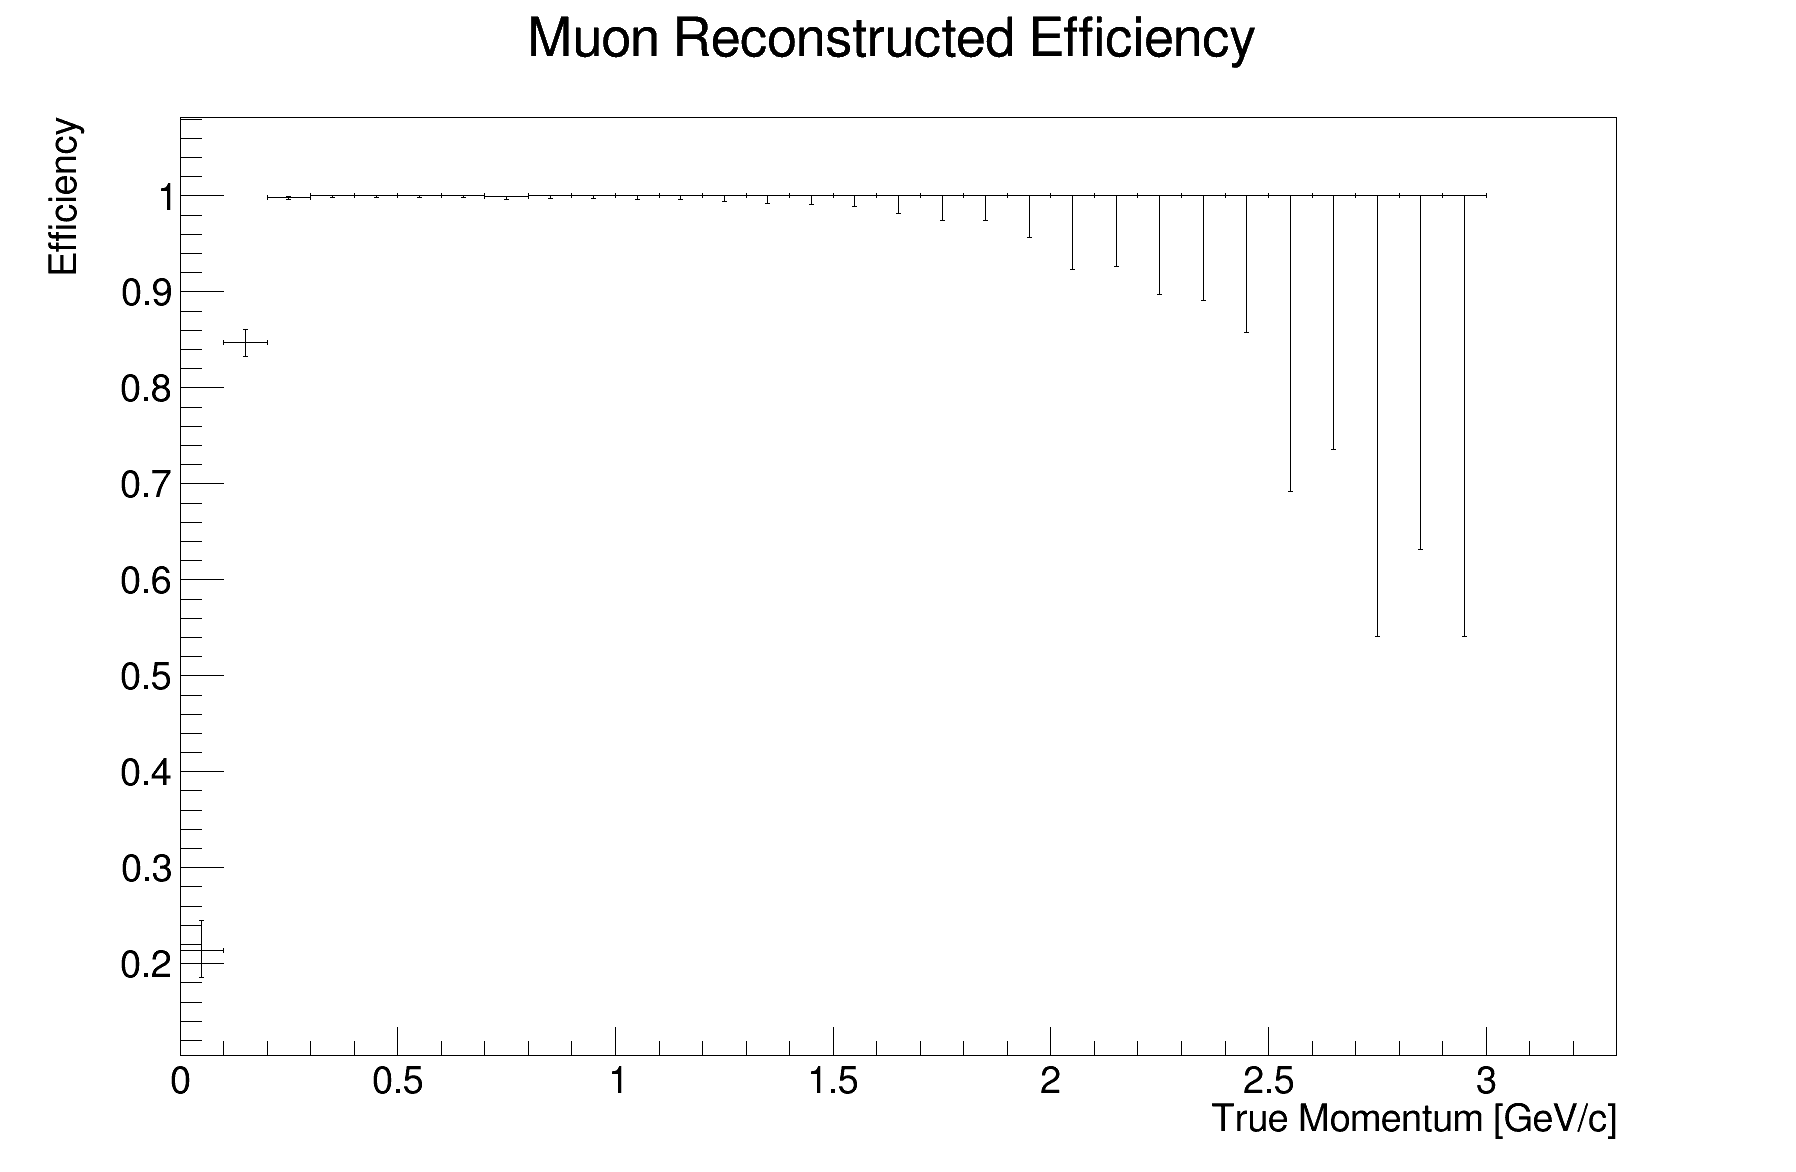
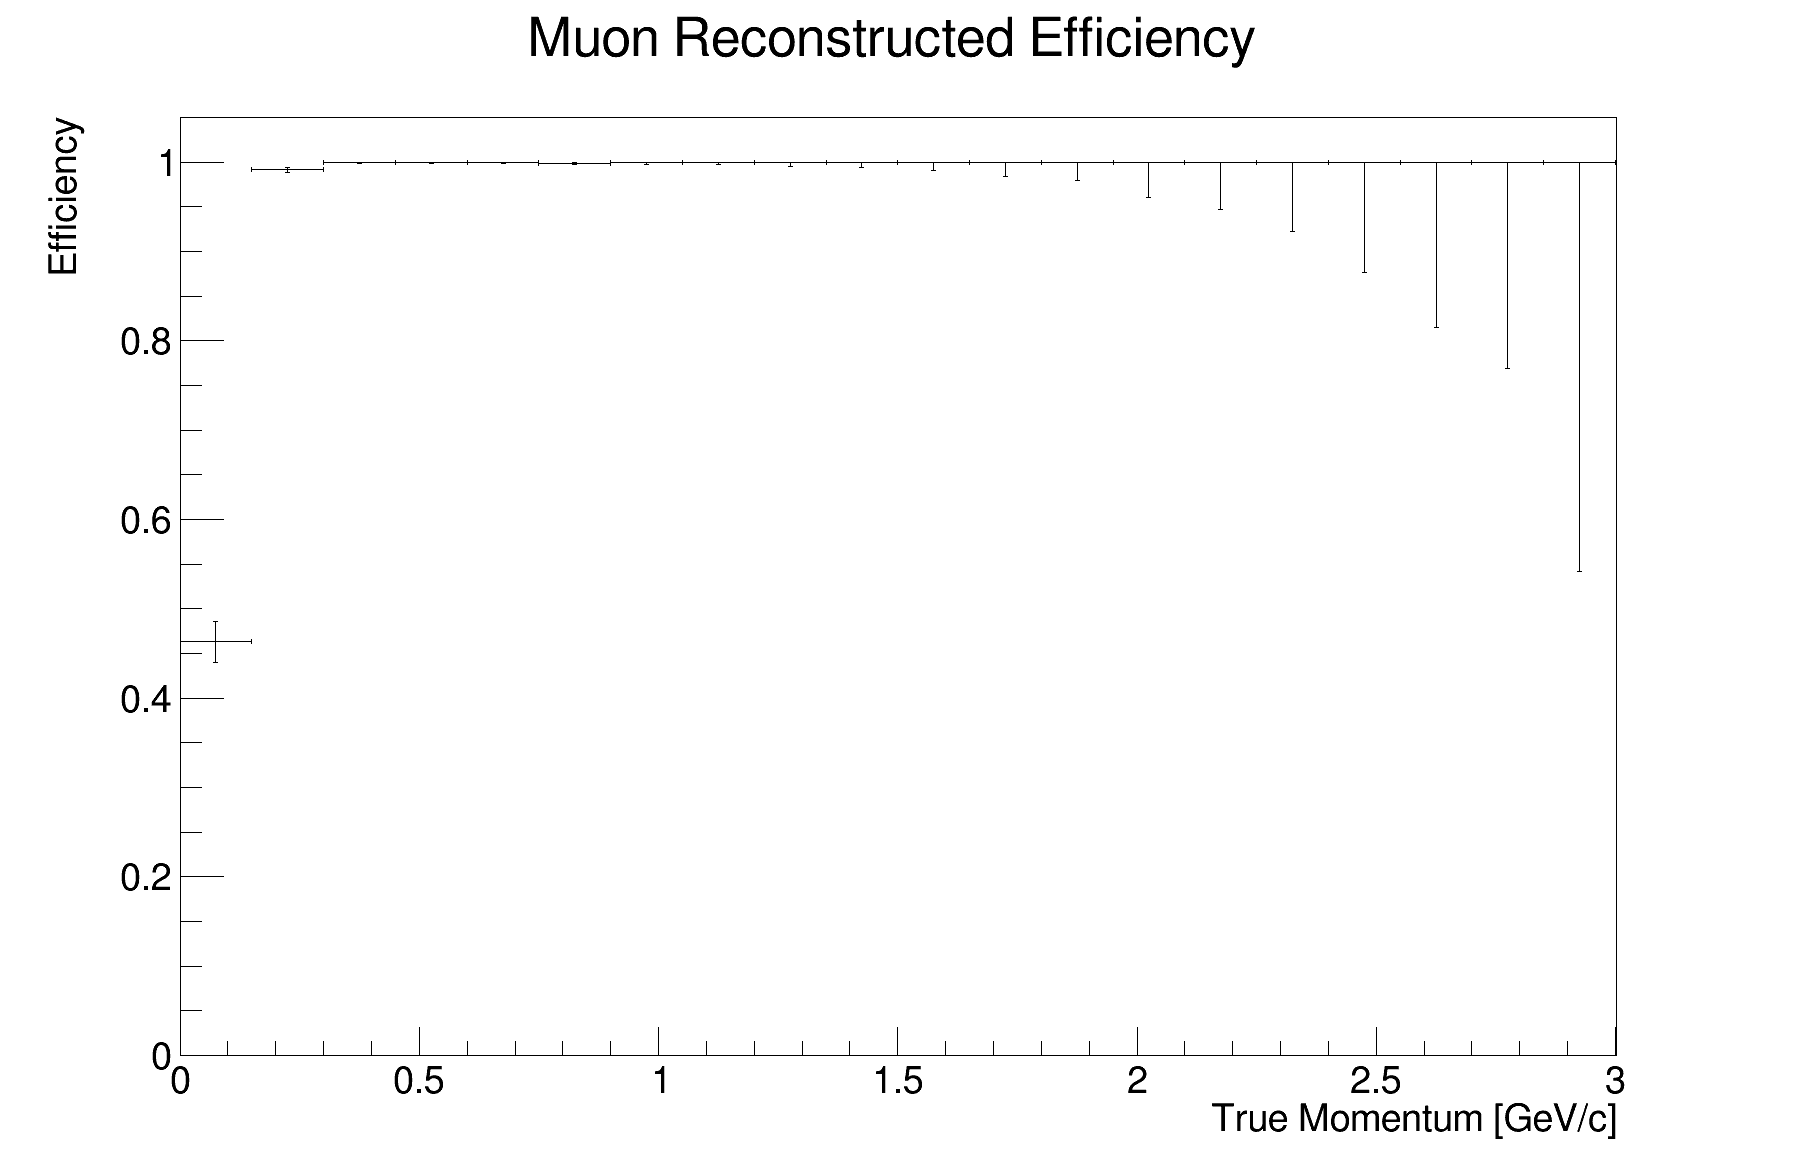
count per view hits in analyzer

diff --git a/output/recoStudy.C b/output/recoStudy.C
@@ -4,6 +4,32 @@
 #include <TStyle.h>
 #include <TCanvas.h>
 
+void StyleEfficiency(TEfficiency* eff, Color_t color, Style_t markerStyle, double xmin, double xmax)
+{
+    eff->Draw("AP");
+    gPad->Update();
+
+    TGraphAsymmErrors* gr = eff->GetPaintedGraph();
+
+    for (int i = 0; i < gr->GetN(); ++i)
+    {
+        gr->SetPointEXlow(i, 0.0);
+        gr->SetPointEXhigh(i, 0.0);
+    }
+
+    gr->SetMarkerColor(color);
+    gr->SetLineColor(color);
+    gr->SetMarkerStyle(markerStyle);
+    gr->SetMarkerSize(5);
+    gr->SetLineWidth(2);
+
+    gr->GetXaxis()->SetRangeUser(xmin, xmax);
+    gr->GetYaxis()->SetRangeUser(0.0, 1.05);
+
+    gPad->Modified();
+    gPad->Update();
+}
+
 void recoStudy::Loop()
 {
 //   In a ROOT session, you can do:
@@ -38,10 +64,10 @@ void recoStudy::Loop()
       hRecoEfficiencies->at(i)->SetDirectory(nullptr);
    }*/
 
-   TEfficiency* effMuon = new TEfficiency("effMuon", "Muon Reconstructed Efficiency;True Momentum [GeV/c]; Efficiency", 30, 0.0, 3.0);
-   TEfficiency* effPhoton = new TEfficiency("effPhoton", "Photon Reconstruction Efficiency;True Momentum [GeV/c]; Efficiency", 30, 0.0, 3.0);
-   TEfficiency* effProton = new TEfficiency("effProton", "Proton Reconstruction Efficiency;True Momentum [GeV/c]; Efficiency", 30, 0.0, 3.0);
-   TEfficiency* effPion = new TEfficiency("effPion", "Pion Reconstruction Efficiency;True Momentum [GeV/C]; Efficiency", 30, 0.0, 0.0);
+   TEfficiency* effMuon = new TEfficiency("effMuon", "Muon Reconstructed Efficiency;True Momentum [GeV/c]; Efficiency", 20, 0.0, 3.0);
+   TEfficiency* effPhoton = new TEfficiency("effPhoton", "Photon Reconstruction Efficiency;True Momentum [GeV/c]; Efficiency", 20, 0.0, 0.5);
+   TEfficiency* effProton = new TEfficiency("effProton", "Proton Reconstruction Efficiency;True Momentum [GeV/c]; Efficiency", 20, 0.0, 1.5);
+   TEfficiency* effPion = new TEfficiency("effPion", "Pion Reconstruction Efficiency;True Momentum [GeV/C]; Efficiency", 20, 0.0, 0.5);
 
    int nMuons = 0;
    int nPhotons = 0;
@@ -76,17 +102,17 @@ void recoStudy::Loop()
                nMuons++;
             }
             // photons
-            if (truePDG->at(i) == 22 && trueGeneration->at(i) == 1){
+            if (truePDG->at(i) == 22 && trueGeneration->at(i) == 1 && trueMotherPDG->at(i) == 3212){
                effPhoton->Fill(reconstructed, momentum);
                nPhotons++;
             }
             // protons
-            if (truePDG->at(i) == 2212 && trueGeneration->at(i) == 2){
+            if (truePDG->at(i) == 2212 && trueGeneration->at(i) == 2 && trueMotherPDG->at(i) == 3122){
                effProton->Fill(reconstructed, momentum);
                nProtons++;
             }
             // pions
-            if (truePDG->at(i) == -211 && trueGeneration->at(i) == 2){
+            if (truePDG->at(i) == -211 && trueGeneration->at(i) == 2 && trueMotherPDG->at(i) == 3122){
                effPion->Fill(reconstructed, momentum);
                nPions++;
             }
@@ -106,23 +132,26 @@ void recoStudy::Loop()
    cEffMuon->SetFillStyle(1001);
    cEffMuon->SetFillColor(kWhite);
    effMuon->Draw("AP");
+   StyleEfficiency(effMuon, kBlue, 20, 0, 3.0);
    cEffMuon->Print("plots/efficiencyMuon.png");
 
    TCanvas* cEffPhoton = new TCanvas("cEffPhoton", "", 1800, 1200);
    cEffPhoton->SetFillStyle(1001);
    cEffPhoton->SetFillColor(kWhite);
    effPhoton->Draw("AP");
+   StyleEfficiency(effPhoton, kBlue, 20, 0, 1.0);
    cEffPhoton->Print("plots/efficiencyPhoton.png");
 
    TCanvas* cEffProton = new TCanvas("cEffProton", "", 1800, 1200);
    cEffProton->SetFillStyle(1001);
    cEffProton->SetFillColor(kWhite);
    effProton->Draw("AP");
+   StyleEfficiency(effProton, kBlue, 20, 0, 2.0);
    cEffProton->Print("plots/efficiencyProton.png");
 
    TCanvas* cEffPion = new TCanvas("cEffPion", "", 1800, 1200);
    cEffPion->SetFillStyle(1001);
    cEffPion->SetFillColor(kWhite);
-   effPion->Draw("AP");
+   StyleEfficiency(effPion, kBlue, 20, 0, 1.0);
    cEffPion->Print("plots/efficiencyPion.png");
 }
